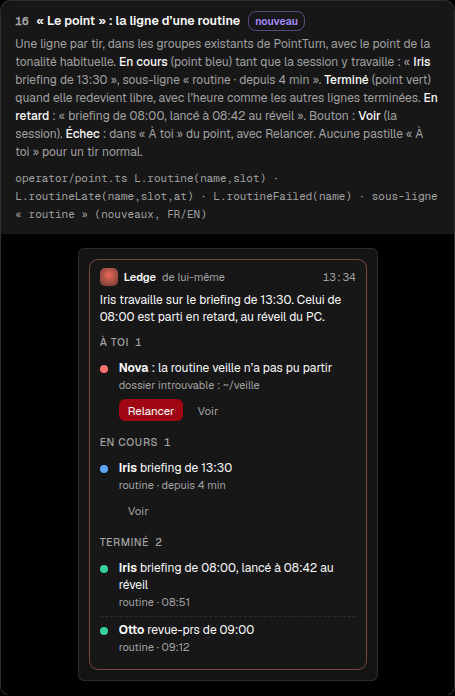
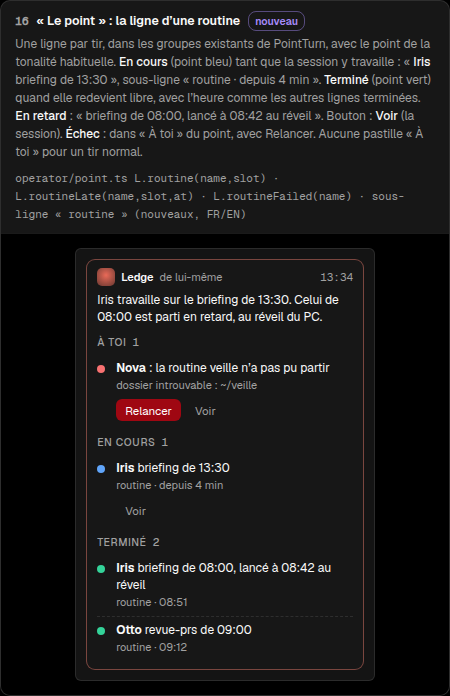
docs(mockups): Routines — fix the point's English line and the TUI's failed slot
The point's English routine line follows the drawn scene (« 13:30 briefing »,
« 08:00 briefing, sent at 08:42 on wake »), and its keys now drive the scene.
The TUI shows veille's failed slot at 18:00, its only time.

diff --git a/docs/mockups/ledge-routines.html b/docs/mockups/ledge-routines.html
@@ -408,7 +408,7 @@ const T = {
     decisions:'Décisions', requests:'Demandes', finished:'Terminé depuis ton passage', allow:'Autoriser', deny:'Refuser', allowCommand:'Autoriser une commande',
     // point
     pointBy:'de lui-même', groups:{atoi:'À toi', ongoing:'En cours', done:'Terminé'},
-    ptLine:(r,s)=>`${r} de ${s}`, ptSub:'routine', ptSince:m=>`routine · depuis ${m} min`, ptLate:(r,s,h)=>`${r} de ${s}, lancé à ${h} au réveil`, ptSee:'Voir', ptLead:'Iris travaille sur le briefing de 13:30. Celui de 08:00 est parti en retard, au réveil du PC.',
+    ptLine:(r,slot)=>`${r} de ${slot}`, ptSub:'routine', ptSince:m=>`routine · depuis ${m} min`, ptLate:(r,slot,h)=>`${r} de ${slot}, lancé à ${h} au réveil`, ptSee:'Voir', ptLead:'Iris travaille sur le briefing de 13:30. Celui de 08:00 est parti en retard, au réveil du PC.',
     ptFail:r=>`: la routine ${r} n’a pas pu partir`,
     // phone
     pSessions:'Sessions', pEntry:'Routines', pEntrySub:(n,h)=>`${n} routines · prochain tir ${h}`, pBack:'Retour aux sessions', pReadonly:'Créer ou modifier une routine : sur le PC, ou en le demandant à Ledge.',
@@ -466,7 +466,7 @@ const T = {
     failLine:(r,s,why)=>`The routine ${r} (${s}) could not run: ${why}`,
     decisions:'Decisions', requests:'Requests', finished:'Finished since your last visit', allow:'Allow', deny:'Deny', allowCommand:'Allow a command',
     pointBy:'on its own', groups:{atoi:'For you', ongoing:'In progress', done:'Done'},
-    ptLine:(r,s)=>`${s}’s ${r}`, ptSub:'routine', ptSince:m=>`routine · for ${m} min`, ptLate:(r,s,h)=>`${s}’s ${r}, sent at ${h} on wake`, ptSee:'View', ptLead:'Iris is working on the 13:30 briefing. The 08:00 one left late, when the PC woke.',
+    ptLine:(r,slot)=>`${slot} ${r}`, ptSub:'routine', ptSince:m=>`routine · for ${m} min`, ptLate:(r,slot,h)=>`${slot} ${r}, sent at ${h} on wake`, ptSee:'View', ptLead:'Iris is working on the 13:30 briefing. The 08:00 one left late, when the PC woke.',
     ptFail:r=>`: routine ${r} could not run`,
     pSessions:'Sessions', pEntry:'Routines', pEntrySub:(n,h)=>`${n} routines · next run ${h}`, pBack:'Back to sessions', pReadonly:'To create or edit a routine: on the PC, or ask Ledge.',
     pNext:h=>`Next run ${h}`, pPendingSee:'See in For you', pAsk:'Request', pFail:'Failure', pRoutine:'Routine',
@@ -731,7 +731,7 @@ function atoiCards(){
 function pointCard(){
   const x = t();
   const pr = (dot, whoTxt, txt, sub, btns='') => `<div class="pr"><span class="dot ${dot}"></span><div><b>${whoTxt}</b> ${txt}${sub?`<small>${sub}</small>`:''}</div>${btns?`<div class="acts">${btns}</div>`:''}</div>`;
-  const brief = L==='fr' ? 'briefing de 13:30' : '13:30 briefing';
+  const brief = x.ptLine('briefing','13:30');
   return {tag:'new', title:'« Le point » : la ligne d’une routine', wide:false,
     why:'Une ligne par tir, dans les groupes existants de PointTurn, avec le point de la tonalité habituelle. <b>En cours</b> (point bleu) tant que la session y travaille : « <b>Iris</b> briefing de 13:30 », sous-ligne « routine · depuis 4 min ». <b>Terminé</b> (point vert) quand elle redevient libre, avec l’heure comme les autres lignes terminées. <b>En retard</b> : « briefing de 08:00, lancé à 08:42 au réveil ». Bouton : <b>Voir</b> (la session). <b>Échec</b> : dans « À toi » du point, avec Relancer. Aucune pastille « À toi » pour un tir normal.',
     keys:'operator/point.ts L.routine(name,slot) · L.routineLate(name,slot,at) · L.routineFailed(name) · sous-ligne « routine » (nouveaux, FR/EN)',
@@ -739,7 +739,7 @@ function pointCard(){
       <p style="margin:0">${x.ptLead}</p>
       <h5>${x.groups.atoi} <span class="mono">1</span></h5>${pr('perm','Nova', x.ptFail('veille'), x.failNoDir, `<button class="btn pri">${x.retry}</button><button class="btn ghost">${x.ptSee}</button>`)}
       <h5>${x.groups.ongoing} <span class="mono">1</span></h5>${pr('work','Iris', brief, x.ptSince(4), `<button class="btn ghost">${x.ptSee}</button>`)}
-      <h5>${x.groups.done} <span class="mono">2</span></h5>${pr('idle','Iris', L==='fr'?'briefing de 08:00, lancé à 08:42 au réveil':'08:00 briefing, sent at 08:42 on wake', `${x.ptSub} · 08:51`)}${pr('idle','Otto', L==='fr'?'revue-prs de 09:00':'09:00 revue-prs', `${x.ptSub} · 09:12`)}
+      <h5>${x.groups.done} <span class="mono">2</span></h5>${pr('idle','Iris', x.ptLate('briefing','08:00','08:42'), `${x.ptSub} · 08:51`)}${pr('idle','Otto', x.ptLine('revue-prs','09:00'), `${x.ptSub} · 09:12`)}
     </div></div>`};
 }
 
@@ -778,7 +778,7 @@ function tuiCard(){
   const L1 = (sel, name, right, sub, cls='') => `<span class="${sel?'sel':''}" style="display:block">${cls?`<span class="${cls}">`:''}<b>${pad(name, 22)}</b>${cls?'</span>':''}${right}</span><span class="dim" style="display:block">  ${sub}</span>`;
   const body = [
     L1(false, 'point-hebdo', `<span class="warn">? ${x.tPending}</span>`, `Iris · 17:00 · ${x.fri}`),
-    L1(false, 'veille', `<span class="bad">! 08:00 ${x.out.failed}</span>`, `Nova · 18:00 · ${x.daily} · ${x.failNoDir}`),
+    L1(false, 'veille', `<span class="bad">! 18:00 ${x.out.failed}</span>`, `Nova · 18:00 · ${x.daily} · ${x.failNoDir}`),
     L1(true,  'briefing', `<span class="ok">●</span> ${fr?'prochain':'next'} 13:30   <span class="ok">✓</span> 08:00 <span class="warn">${x.late}</span>`, `Iris · 08:00 13:30 16:30 · ${x.monfri} · ${x.out.resumed}`),
     L1(false, 'revue-prs', `<span class="ok">●</span> ${fr?'demain':'tomorrow'} 09:00  <span class="ok">✓</span> 09:00`, `Otto · 09:00 · ${x.monfri} · ${x.out.delivered}`),
     L1(false, 'nettoyage-branches', `<span class="dim">‖ ${x.paused}</span>`, `Pim · 19:30 · ${x.fri}`, 'dim'),
